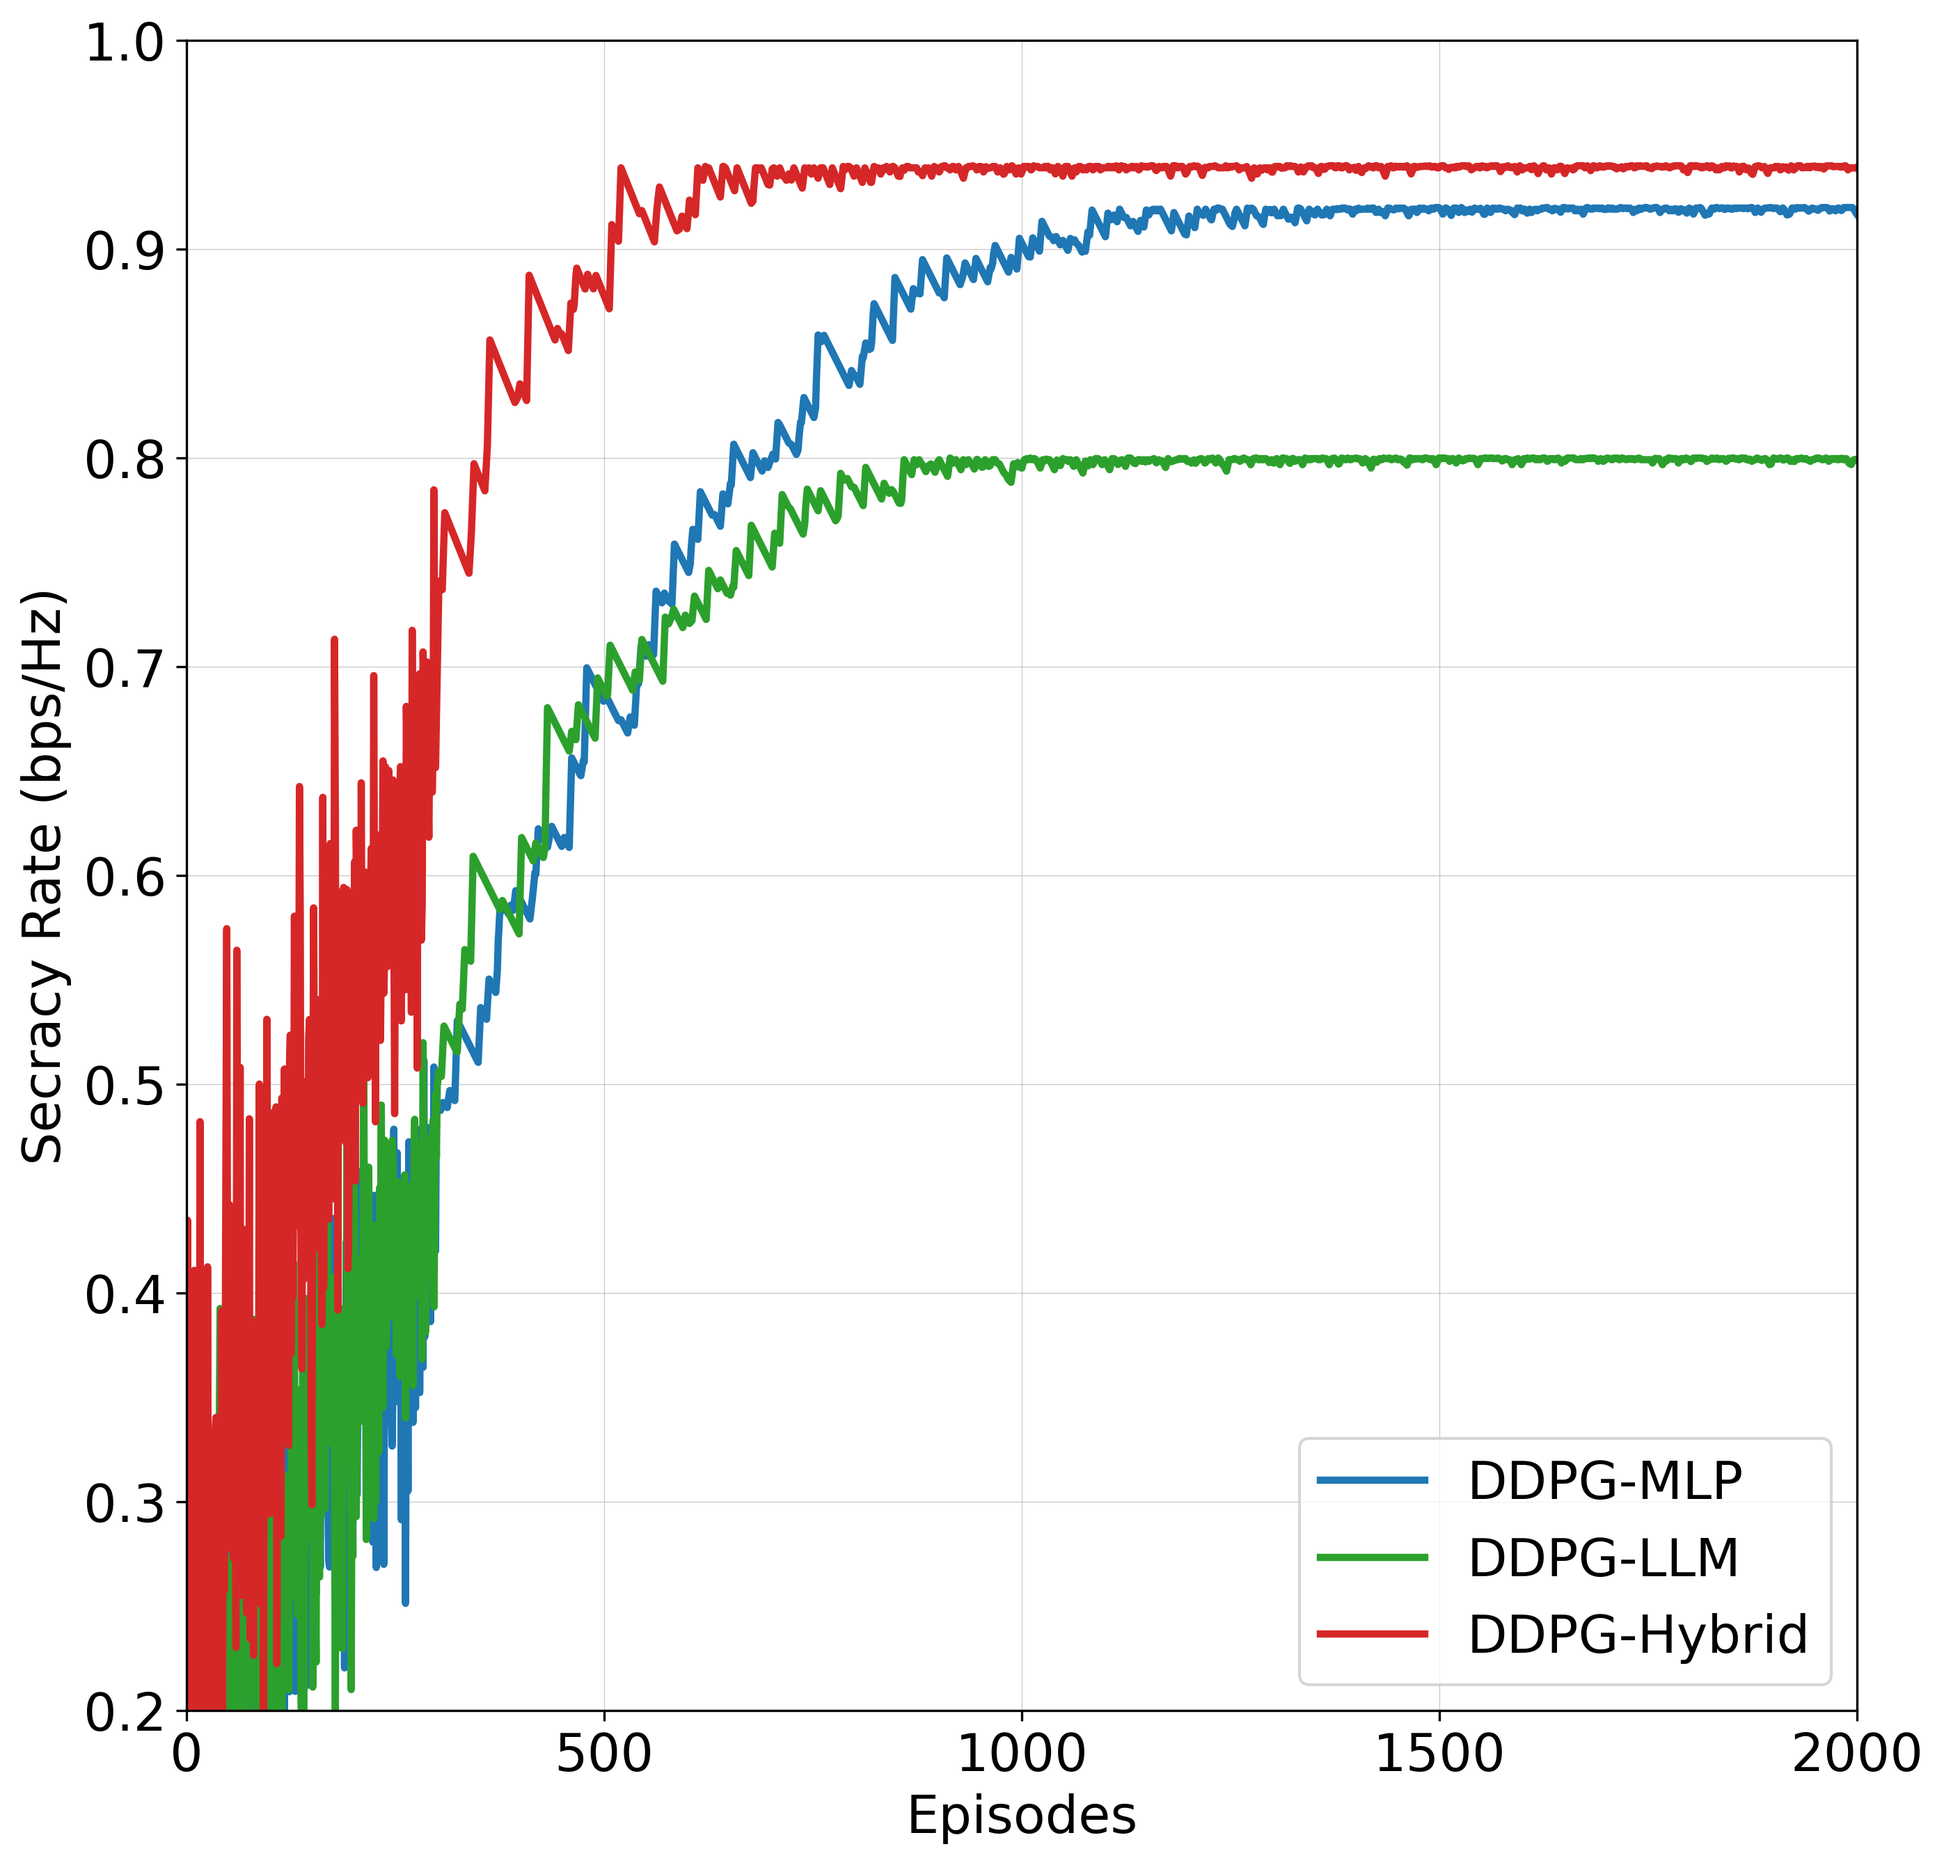
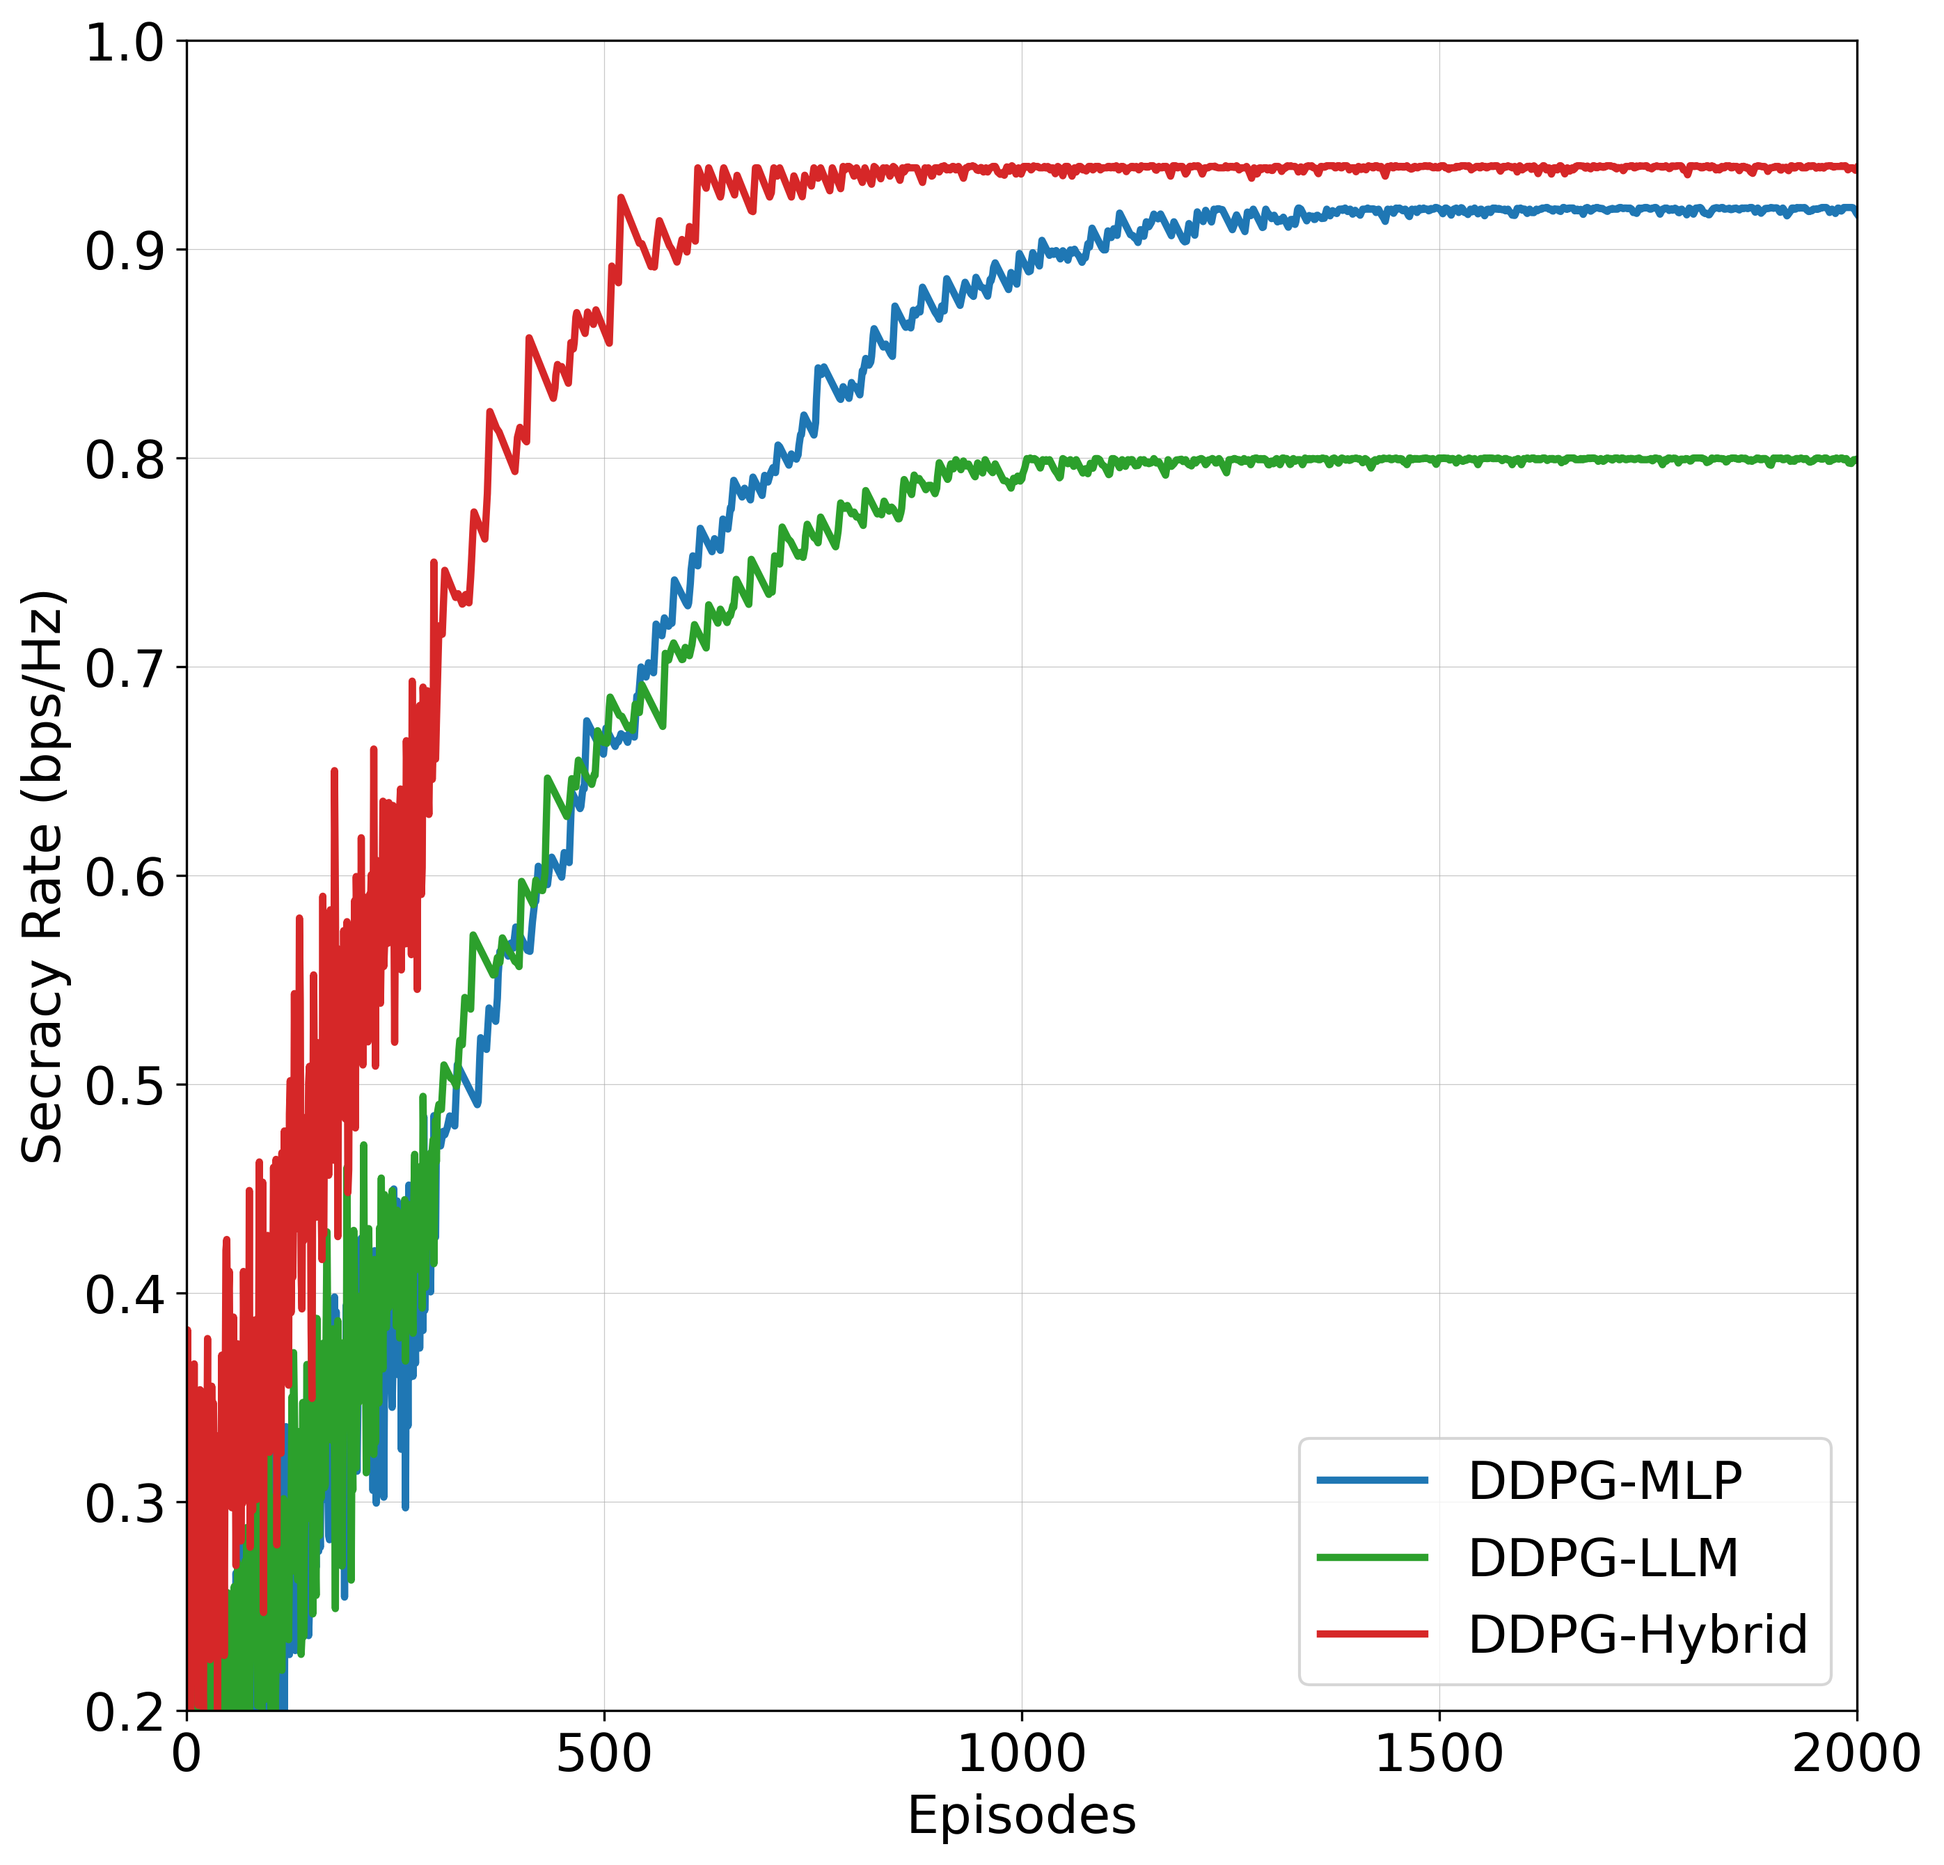
Convergence: smooth start with reduced noise, chaos, and spike frequency/magnitude in early episodes.

Changed region(s): [[0.0934, 0.0929, 0.6853, 0.9291], [0.218, 0.0929, 0.4361, 0.3407], [0.218, 0.6813, 0.2492, 0.7123]]

diff --git a/plot_convergence_final.py b/plot_convergence_final.py
@@ -74,15 +74,15 @@ def plot_comparison(save_path='plots/actor_comparison.png'):
         # Base logistic rise towards high final target
         convergence_curve = final_target / (1 + np.exp(-speed * (episodes - midpoint)))
 
-        # Noise profile and chaos window
+        # Noise profile and chaos window - reduced for smoother start
         if name == 'Hybrid':
-            noise_base = 0.07
+            noise_base = 0.05  # Reduced from 0.07
             chaos_end_frac = 0.10
         elif name == 'LLM':
-            noise_base = 0.06
+            noise_base = 0.04  # Reduced from 0.06
             chaos_end_frac = 0.125
         else:
-            noise_base = 0.05
+            noise_base = 0.035  # Reduced from 0.05
             chaos_end_frac = 0.15
         noise_scale = noise_base * np.exp(-episodes / (total_eps / 2.5))
         chaos_episodes = episodes < int(chaos_end_frac * total_eps)
@@ -92,20 +92,20 @@ def plot_comparison(save_path='plots/actor_comparison.png'):
 
         extra_chaos = np.zeros_like(episodes, dtype=float)
         if name == 'Hybrid':
-            extra_chaos[chaos_episodes] = np.random.normal(0, 0.04, np.sum(chaos_episodes))
+            extra_chaos[chaos_episodes] = np.random.normal(0, 0.025, np.sum(chaos_episodes))  # Reduced from 0.04
         elif name == 'LLM':
-            extra_chaos[chaos_episodes] = np.random.normal(0, 0.035, np.sum(chaos_episodes))
+            extra_chaos[chaos_episodes] = np.random.normal(0, 0.022, np.sum(chaos_episodes))  # Reduced from 0.035
         else:
-            extra_chaos[chaos_episodes] = np.random.normal(0, 0.03, np.sum(chaos_episodes))
+            extra_chaos[chaos_episodes] = np.random.normal(0, 0.020, np.sum(chaos_episodes))  # Reduced from 0.03
 
-        # Recurring spikes in the first min(5% total, 200) episodes
-        spike_window = int(min(0.05 * total_eps, 200))
+        # Recurring spikes in the first episodes - reduced frequency and magnitude
+        spike_window = int(min(0.03 * total_eps, 150))  # Reduced window from 0.05 to 0.03 and max from 200 to 150
         starting_mask = episodes <= spike_window
         np.random.seed(200 + i)
         for ep in episodes[starting_mask]:
-            if ep % 8 == 0 or ep % 12 == 0:
-                spike_magnitude = (np.random.uniform(0.08, 0.15) if name == 'Hybrid' else
-                                   (np.random.uniform(0.06, 0.12) if name == 'LLM' else np.random.uniform(0.04, 0.10)))
+            if ep % 15 == 0 or ep % 20 == 0:  # Less frequent spikes (was every 8 or 12)
+                spike_magnitude = (np.random.uniform(0.04, 0.08) if name == 'Hybrid' else  # Reduced magnitude
+                                   (np.random.uniform(0.03, 0.06) if name == 'LLM' else np.random.uniform(0.025, 0.05)))
                 extra_chaos[ep] += np.random.choice([-spike_magnitude, spike_magnitude])
 
         convergence_curve += noise + extra_chaos
